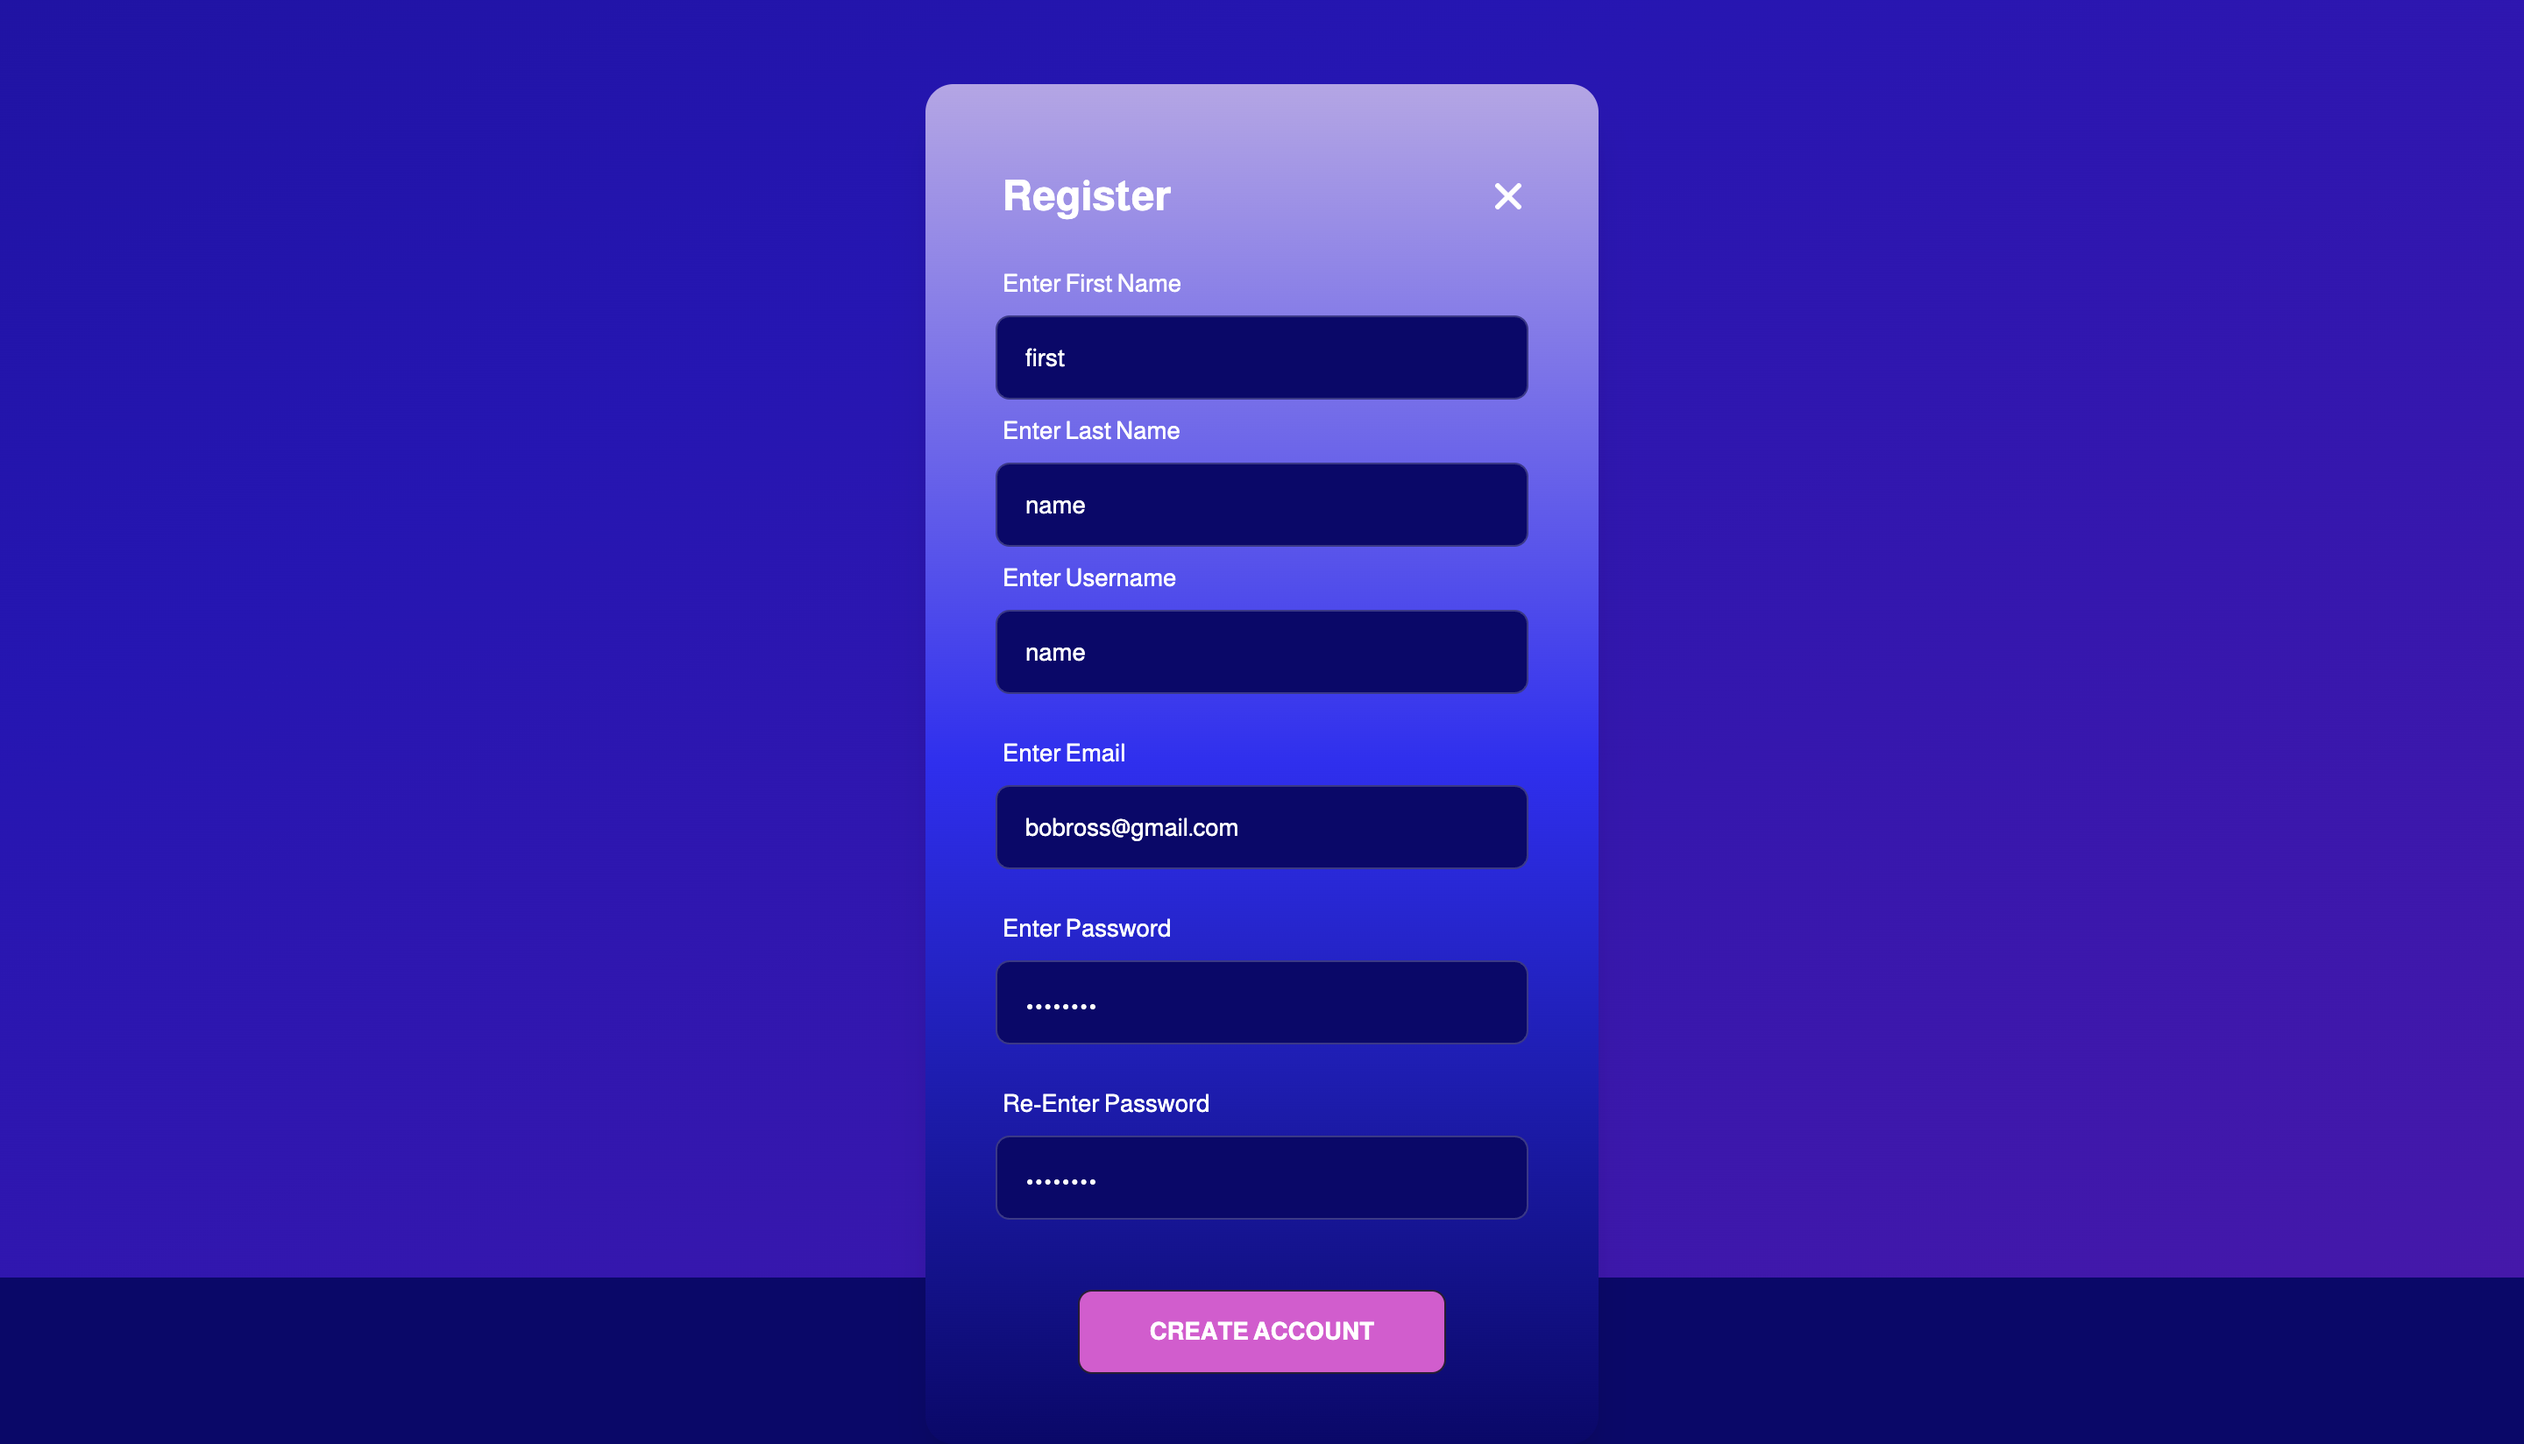
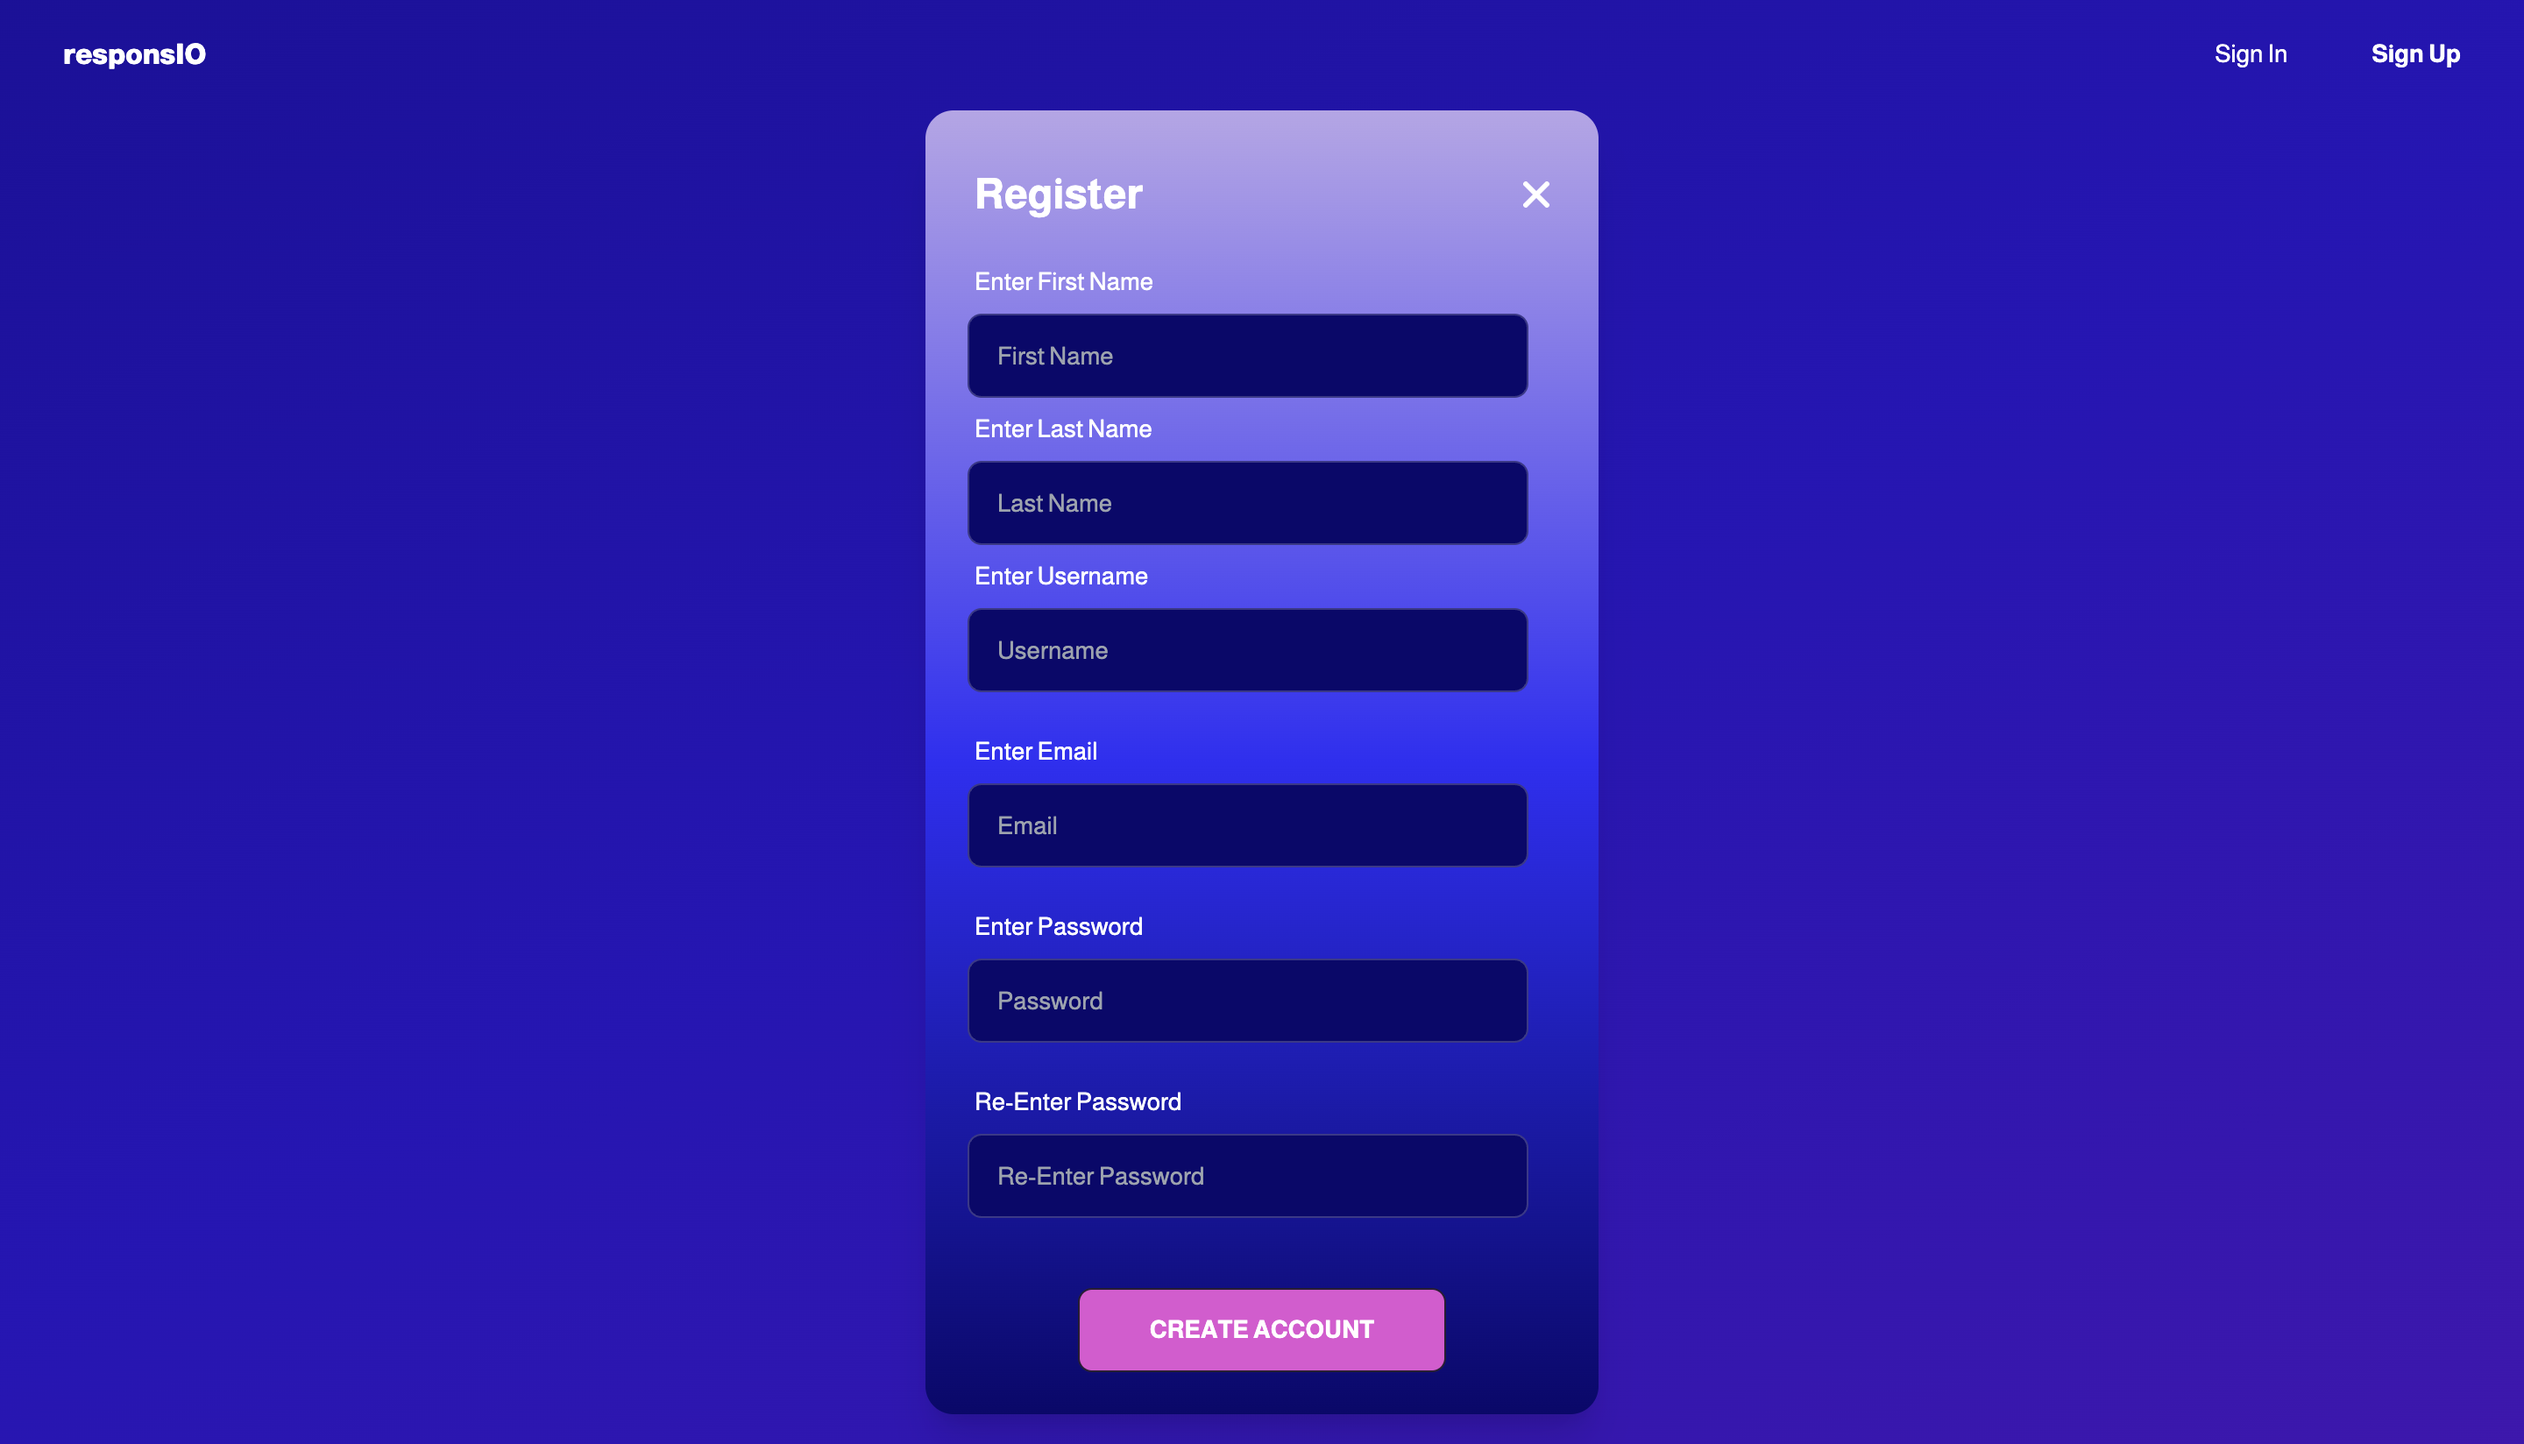
fixed sizing on reg page and added readme assets

diff --git a/apps/web/src/pages/RegisterPage.tsx b/apps/web/src/pages/RegisterPage.tsx
@@ -49,13 +49,13 @@ function RegisterPage() {
   }
 
   return (
-    <div className=' h-screen'>
+    <div className='h-full'>
       <Header unauthenticated />
-      <div className='grid place-items-center pt-20'>
+      <div className='grid place-items-center pb-5'>
         <form
           onSubmit={submitHandler}
           id='login-container'
-          className='card w-96 bg-base-100 shadow-xl p-10 bg-gradient-to-b from-accent  via-[#2F2FF7] text-white'
+          className='card w-96 bg-base-100 shadow-xl p-6 bg-gradient-to-b from-accent  via-[#2F2FF7] text-white'
         >
           <h3 id='login-header' className='label text-2xl pb-4 font-bold'>
             Register
